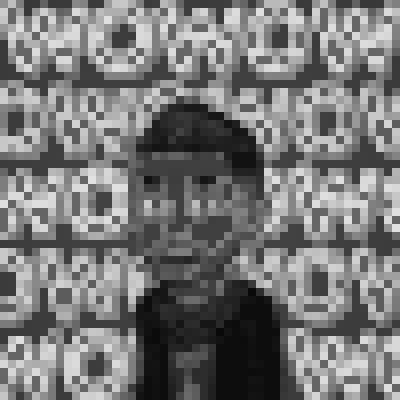
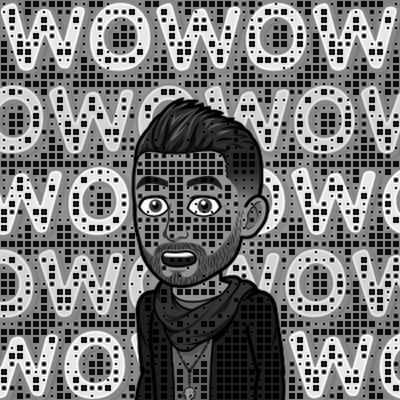
Filling holes potentially done. Refinement needed

diff --git a/Code/ImageCompression.m b/Code/ImageCompression.m
@@ -5,6 +5,7 @@
 
 clear all
 clc
+close all
 
 %% Step 1: Loading an Image
 % We  are going to load the image into MATLAB, asking for the name of the
@@ -178,13 +179,15 @@ figure
 subplot(2,2,1)
 imshow(intensityImage);
 title(strcat('Image showing the intensity (amplitude) of the image for: ', fileName));
+axis = gca;
+axis.Visible = 'On';
 
 % We create an input dialog box so we can get the compression depth for the
 % image. The number will be between 1 and 8, and will determine how much
 % compression will take place.
 
 compressionDepth = inputdlg('Choose the compression depth value (1-8):', 'Enter the value for compression depth', [1 70]);
-
+testString = strcat(' Compression depth = ', compressionDepth);
 compressionDepth = str2double(compressionDepth);
 
 % Now to perform the actual dct compression on 8x8 blocks, we can create
@@ -234,11 +237,123 @@ end
 subplot(2,2,3)
 imshow(holesImage)
 title(strcat('Image before compression: ', fileName))
-imwrite(holesImage, 'abc.png');
+axis = gca;
+axis.Visible = 'On';
+% imwrite(holesImage, 'abc.png');
 
 compressedImage255 = compressedImage/255;
 
+
 subplot(2,2,4)
 imshow(compressedImage255)
-title(strcat('Image after compression: ', fileName))
-imwrite(compressedImage255, 'abc2.png');
+title(strcat('Image after compression: ', fileName, testString))
+axis = gca;
+axis.Visible = 'On';
+% imwrite(compressedImage255, 'abc2.png');
+
+%% Step 6: Encoding and introducing errors into the image
+
+
+
+%% Step 7: Filling in the holes
+
+for q = 1:totalNumberOfBlocks
+    
+    block2x2 = compressedBlocks{q}(4:5,4:5);
+    
+    average = mean(block2x2, 'all');
+    
+    counter = 1;
+    for i = 1:2
+        for j = 1:2
+            temp1(counter) = pdist([block2x2(i,j); average], 'chebychev');
+            counter = counter + 1;
+        end
+    end
+    
+    if (all(temp1 < 8))
+        block4x4 = compressedBlocks{q}(3:6, 3:6);
+        
+        average = mean(block4x4, 'all');
+        
+        counter = 1;
+        for i = 1:4
+            for j = 1:4
+                temp2(counter) = pdist([block4x4(i,j); average], 'chebychev');
+                counter = counter + 1;
+            end
+        end
+        if (all(temp2 < 8))
+            block6x6 = compressedBlocks{q}(2:7, 2:7);
+            average = mean(block6x6, 'all');
+            
+            counter = 1;
+            for i = 1:6
+                for j = 1:6
+                    temp3(counter) = pdist([block6x6(i,j); average], 'chebychev');
+                    counter = counter + 1;
+                end
+            end
+            
+            if (all(temp3 < 8))
+                for rowPoint = 2:7
+                    for colPoint = 2:7
+                        compressedBlocks{q}(rowPoint,colPoint) = ...
+                            (compressedBlocks{q}(rowPoint-1,colPoint-1) ...
+                            + compressedBlocks{q}(rowPoint-1,colPoint) ...
+                            + compressedBlocks{q}(rowPoint,colPoint-1))/3;
+                    end
+                end
+                
+            else
+                for rowPoint = 3:6
+                    for colPoint = 3:6
+                        compressedBlocks{q}(rowPoint,colPoint) = ...
+                            (compressedBlocks{q}(rowPoint-1,colPoint-1) ...
+                            + compressedBlocks{q}(rowPoint-1,colPoint) ...
+                            + compressedBlocks{q}(rowPoint,colPoint-1))/3;
+                    end
+                end
+            end
+            
+            
+        else
+            for rowPoint = 4:5
+                for colPoint = 4:5
+                    compressedBlocks{q}(rowPoint,colPoint) = ...
+                        (compressedBlocks{q}(rowPoint-1,colPoint-1) ...
+                        + compressedBlocks{q}(rowPoint-1,colPoint) ...
+                        + compressedBlocks{q}(rowPoint,colPoint-1))/3;
+                end
+            end
+            
+        end
+        
+    end
+    
+end
+
+
+bIndex = 1;
+for yIndex = 1:blocksDown
+    for xIndex = 1:blocksAcross
+        reconstructedImage((8*yIndex)-7:(yIndex*8), (8*xIndex)-7:(xIndex*8)) = compressedBlocks{bIndex};
+        bIndex = bIndex+1;
+    end
+end
+
+reconstructedImage255 = reconstructedImage/255;
+
+figure
+subplot(1,2,1)
+imshow(grayImage)
+title(strcat('Orignal Image: ', fileName))
+axis = gca;
+axis.Visible = 'On';
+
+
+subplot(1,2,2)
+imshow(reconstructedImage255)
+title(strcat('Reconstructed Image: ', fileName))
+axis = gca;
+axis.Visible = 'On';
